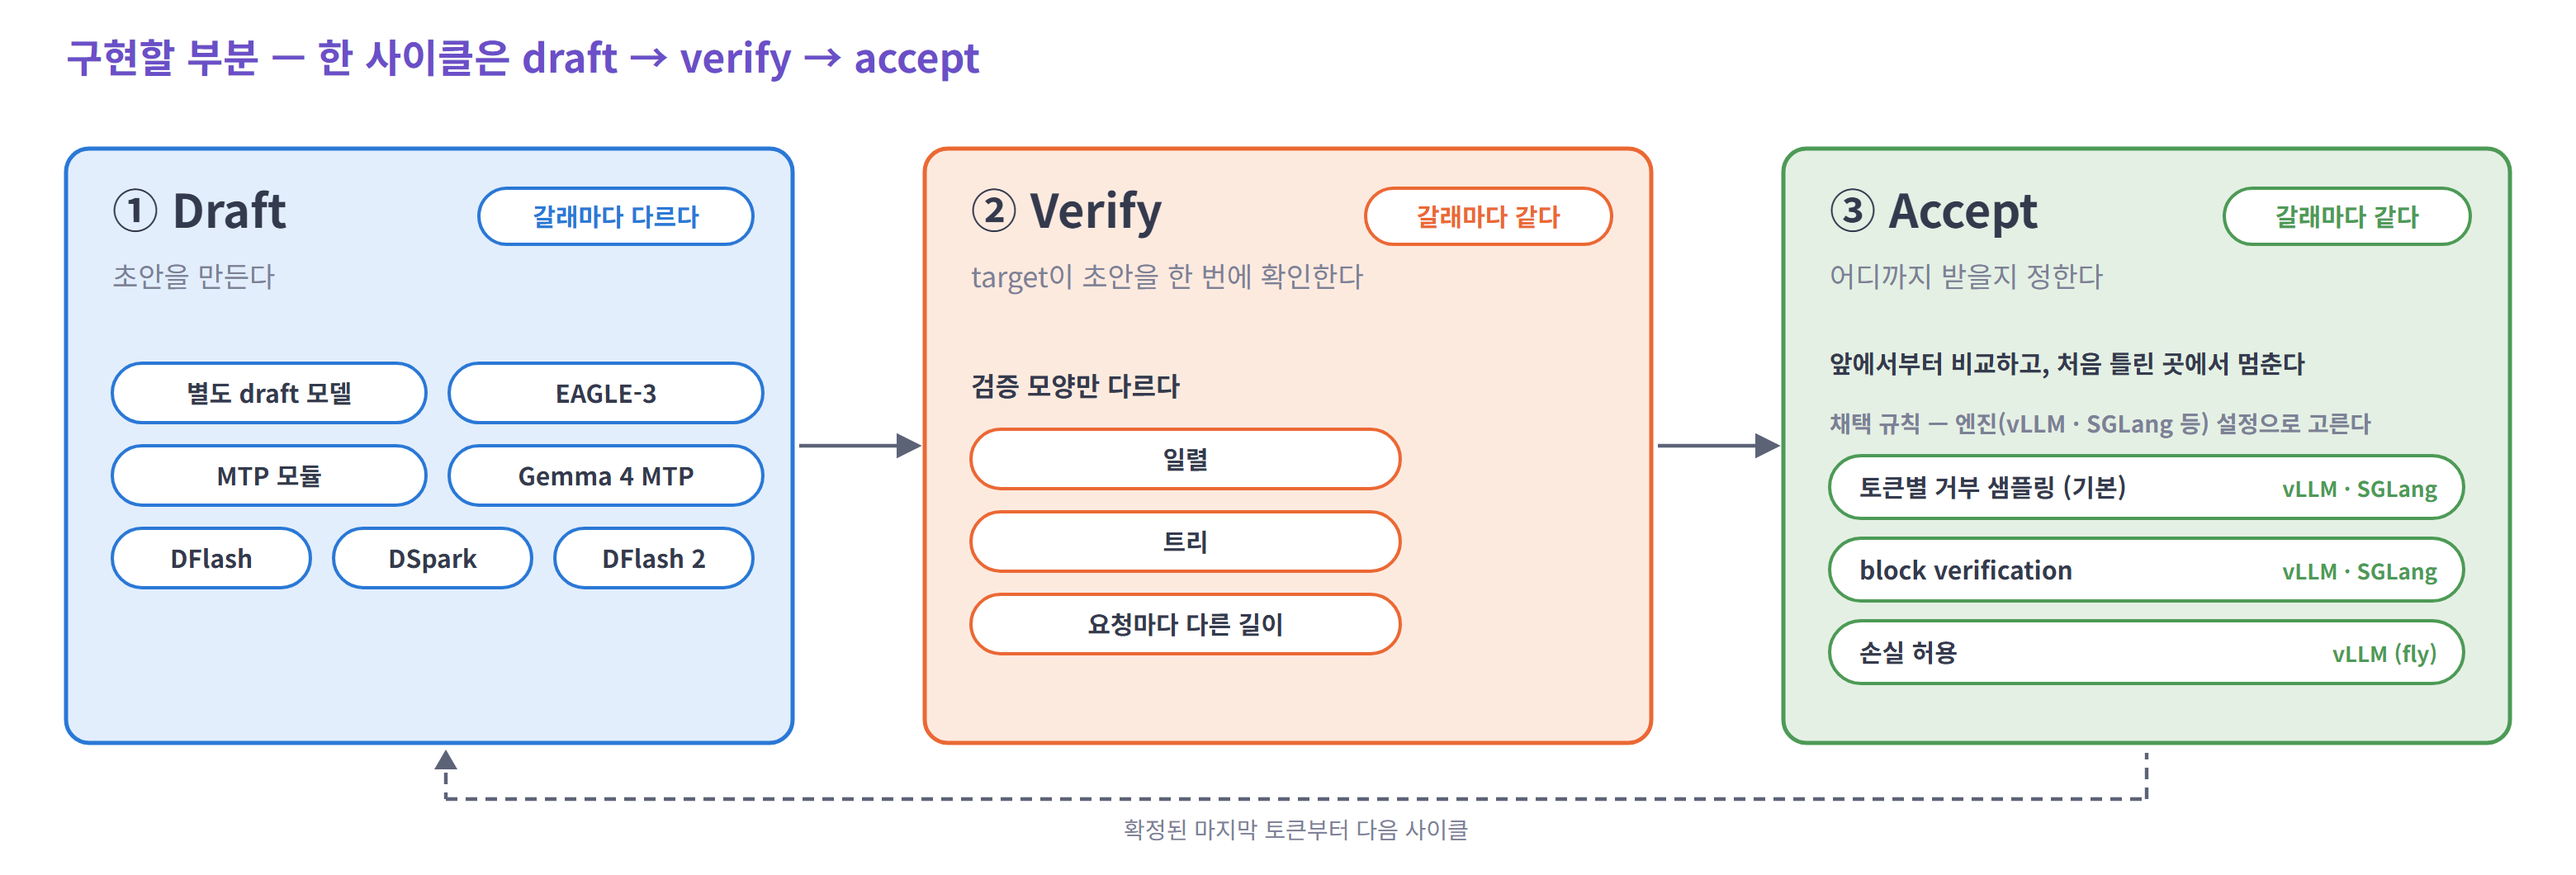
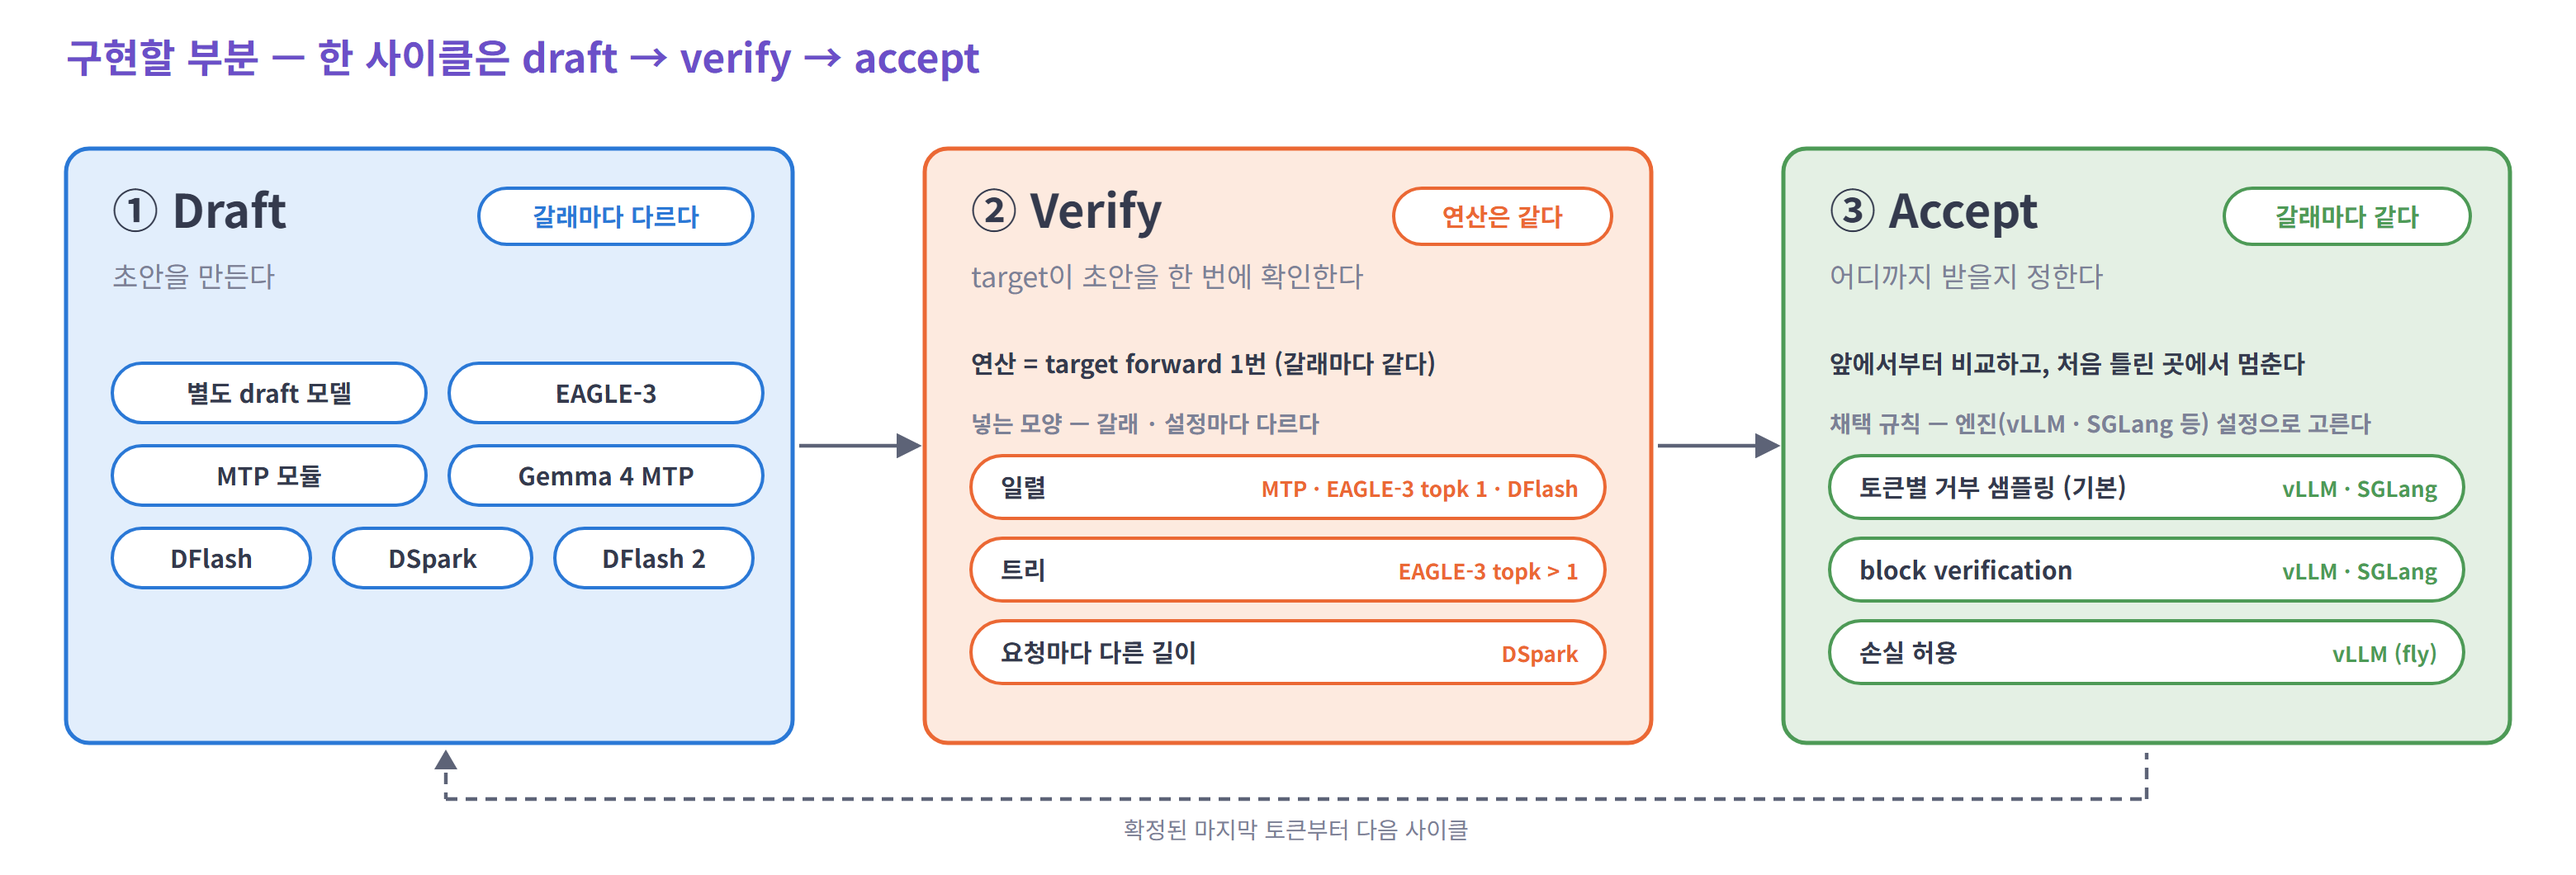
docs: separate the verify operation from its input shape per branch
- Figure 42 and section 1: the verify operation is the same for every
  drafter, while the input shape (chain, tree, per-request length)
  depends on the drafter and its settings

Changed region(s): [[0.3731, 0.4047, 0.6218, 0.8094], [0.5285, 0.2179, 0.6218, 0.2802]]

diff --git a/deepstudy/speculative-decoding/figures/make_figures.py b/deepstudy/speculative-decoding/figures/make_figures.py
@@ -1537,7 +1537,7 @@ def fig_impl_structure():
     f.title(40, 44, "구현할 부분 — 한 사이클은 draft → verify → accept")
     W, H, y0 = 440, 360, 90
     cols = [(40, "d", "① Draft", "초안을 만든다", "갈래마다 다르다"),
-            (560, "t", "② Verify", "target이 초안을 한 번에 확인한다", "갈래마다 같다"),
+            (560, "t", "② Verify", "target이 초안을 한 번에 확인한다", "연산은 같다"),
             (1080, "ok", "③ Accept", "어디까지 받을지 정한다", "갈래마다 같다")]
     for x, kind, name, role, chip in cols:
         fill, stroke = KINDS[kind]
@@ -1567,9 +1567,14 @@ def fig_impl_structure():
         x += w + 14
     # Verify
     vx = 588
-    f.text(vx, y0 + 150, "검증 모양만 다르다", 16, "start", 700)
-    for i, s in enumerate(["일렬", "트리", "요청마다 다른 길이"]):
-        pill(vx, y0 + 170 + i * 50, 260, s, "t")
+    f.text(vx, y0 + 136, "연산 = target forward 1번 (갈래마다 같다)", 15, "start", 700)
+    f.text(vx, y0 + 172, "넣는 모양 — 갈래 · 설정마다 다르다", 14, "start", 700, MUTED)
+    for i, (sx, eng) in enumerate([("일렬", "MTP · EAGLE-3 topk 1 · DFlash"), ("트리", "EAGLE-3 topk > 1"),
+                                   ("요청마다 다른 길이", "DSpark")]):
+        y = y0 + 186 + i * 50
+        f.rect(vx, y, 384, 38, "#ffffff", KINDS["t"][1], 19, 2)
+        f.text(vx + 18, y + 25, sx, 15, "start", 700)
+        f.text(vx + 368, y + 25, eng, 13, "end", 700, KINDS["t"][1])
     # Accept
     ax = 1108
     f.text(ax, y0 + 136, "앞에서부터 비교하고, 처음 틀린 곳에서 멈춘다", 15, "start", 700)

diff --git a/deepstudy/speculative-decoding-implementation.md b/deepstudy/speculative-decoding-implementation.md
@@ -9,8 +9,11 @@
 ![구현할 부분](speculative-decoding/figures/42-impl-structure.png)
 
 - 한 사이클 = **draft**(초안을 만든다) → **verify**(target이 한 번에 확인한다) → **accept**(어디까지 받을지 정한다). 확정된 마지막 토큰부터 다음 사이클을 돈다
-- 갈래가 갈리는 곳은 **draft뿐**이다 — 별도 draft 모델부터 DFlash 2까지
-- verify는 갈래마다 같고, 검증 모양(일렬 · 트리 · 요청마다 다른 길이)만 다르다
+- 갈래가 크게 갈리는 곳은 **draft**다 — 별도 draft 모델부터 DFlash 2까지
+- verify는 **연산**이 갈래마다 같다 — target forward 한 번에 초안 줄을 넣는다. 다른 것은 **넣는 모양**이고, 갈래와 설정이 정한다
+  - 일렬 — MTP · EAGLE-3(`topk = 1`) · DFlash
+  - 트리 — EAGLE-3(`topk > 1`). 각 노드가 자기 조상만 보게 attention을 가린다
+  - 요청마다 다른 길이 — DSpark. 배치 안에서 요청마다 넣는 줄 수가 다르다
 - accept도 갈래마다 같다 — 앞에서부터 비교하고 처음 틀린 곳에서 멈춘다. 채택 규칙은 알고리즘이 아니라 **엔진 설정**으로 고른다 (토큰별 거부 샘플링이 기본, vLLM · SGLang은 block verification도, vLLM은 손실 허용 `fly`도 있다) → 엔진별 정리는 [4절](#엔진은-채택-규칙을-어떻게-제공하나--구현할-때-참고)
 
 **메모 — 어떻게 구현할지**
